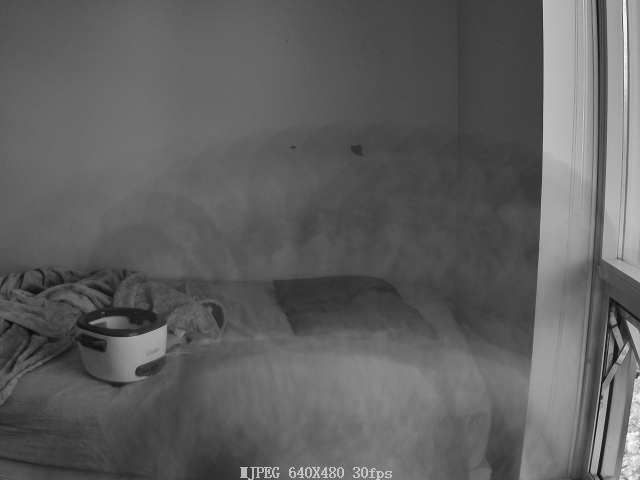
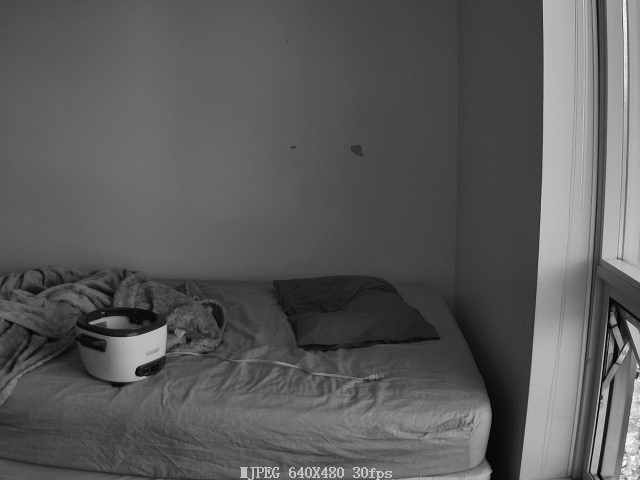
runMotion and runBackground

diff --git a/src/runBackground.py b/src/runBackground.py
@@ -1,3 +1,4 @@
+from turtle import back
 from constants import *
 import camera
 import uploadAll
@@ -6,17 +7,16 @@ import time
 import datetime
 
 
-def main():
+def runMotion():
     feed = camera.Camera()
     isCapturing = False
-    frame = cv2.cvtColor(feed.read(), cv2.COLOR_BGR2GRAY)
+    background = cv2.imread(str(BACKGROUND_FILE), cv2.IMREAD_GRAYSCALE)
 
     while True:
-        framePrevious = frame
         frame = cv2.cvtColor(feed.read(), cv2.COLOR_BGR2GRAY)
-        diff = CAM_CONFIG.diffScale * cv2.norm(frame, framePrevious)
+        diff = CAM_CONFIG.diffScale * cv2.norm(frame, background)
 
-        if diff > DIFF_THRESHOLD and not isCapturing:
+        if diff > DIFF_THRESHOLD_BACKGROUND and not isCapturing:
             isCapturing = True
             fileName = datetime.datetime.now().strftime('%B %d, %H-%M-%S.avi')
             writer = cv2.VideoWriter(str(ASSETS_DIR / fileName), cv2.VideoWriter_fourcc(*'MJPG'), CAM_CONFIG.frameRate, CAM_CONFIG.cropResolution)
@@ -24,7 +24,7 @@ def main():
             for _ in range(CAM_CONFIG.captureCount):
                 writer.write(feed.read())
 
-        elif diff > DIFF_THRESHOLD and isCapturing:
+        elif diff > DIFF_THRESHOLD_BACKGROUND and isCapturing:
             for _ in range(CAM_CONFIG.captureCount):
                 writer.write(feed.read())
 
@@ -40,4 +40,4 @@ def main():
 
 
 if __name__ == '__main__':
-    main()
+    runMotion()

diff --git a/src/runMotion.py b/src/runMotion.py
@@ -1,0 +1,43 @@
+from constants import *
+import camera
+import uploadAll
+import cv2
+import time
+import datetime
+
+
+def runMotion():
+    feed = camera.Camera()
+    isCapturing = False
+    frame = cv2.cvtColor(feed.read(), cv2.COLOR_BGR2GRAY)
+
+    while True:
+        framePrevious = frame
+        frame = cv2.cvtColor(feed.read(), cv2.COLOR_BGR2GRAY)
+        diff = CAM_CONFIG.diffScale * cv2.norm(frame, framePrevious)
+
+        if diff > DIFF_THRESHOLD_MOTION and not isCapturing:
+            isCapturing = True
+            fileName = datetime.datetime.now().strftime('%B %d, %H-%M-%S.avi')
+            writer = cv2.VideoWriter(str(ASSETS_DIR / fileName), cv2.VideoWriter_fourcc(*'MJPG'), CAM_CONFIG.frameRate, CAM_CONFIG.cropResolution)
+            print(f'started capturing "{fileName}"')
+            for _ in range(CAM_CONFIG.captureCount):
+                writer.write(feed.read())
+
+        elif diff > DIFF_THRESHOLD_MOTION and isCapturing:
+            for _ in range(CAM_CONFIG.captureCount):
+                writer.write(feed.read())
+
+        elif isCapturing:
+            isCapturing = False
+            writer.release()
+            print(f'ended capturing')
+            uploadAll.uploadAll()
+            print('\n')
+
+        else:
+            time.sleep(DETECT_DELAY)
+
+
+if __name__ == '__main__':
+    runMotion()

diff --git a/src/constants.py b/src/constants.py
@@ -37,7 +37,8 @@ CAM_CONFIG = WEBCAM_CONFIG if platform.system() == 'Windows' else PICAM_CONFIG
 
 WARMUP_DELAY = 2  # seconds to wait for camera to warm up and adjust
 DETECT_DELAY = 0.25  # seconds delay between detection instances
-DIFF_THRESHOLD = 8
+DIFF_THRESHOLD_MOTION = 8
+DIFF_THRESHOLD_BACKGROUND = 15
 
 SCOPES = ['https://www.googleapis.com/auth/drive']
 DRIVE_FOLDER_ID = '1l3JiqF19aosyFD6ZShBCKGtWro6ItqJF'
